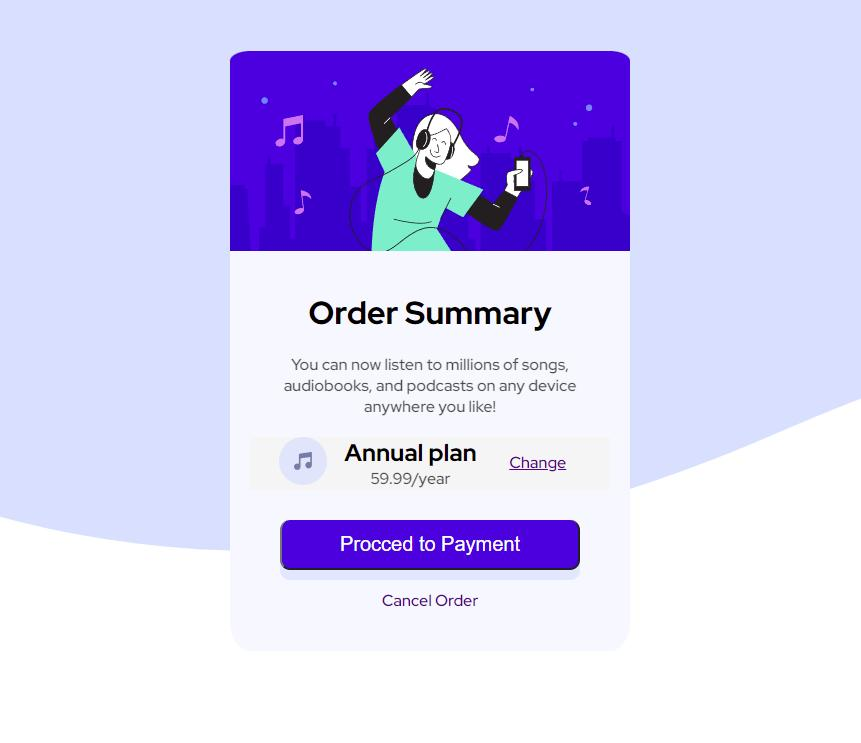
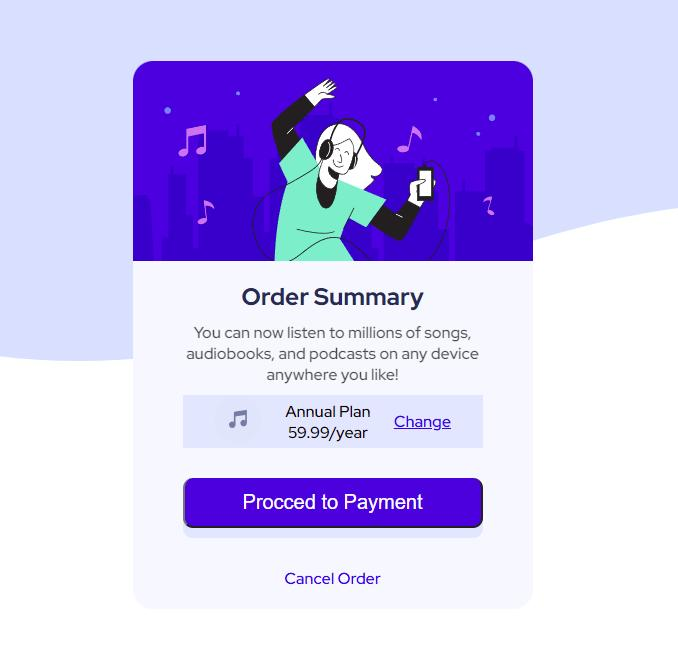
modified:   index.html 	modified:   screenshot.jpg 	modified:   style.css

diff --git a/style.css b/style.css
@@ -1,5 +1,13 @@
 @import url('https://fonts.googleapis.com/css2?family=Red+Hat+Display:wght@500;700;900&display=swap');
 
+:root {
+  --Pale-blue: hsl(225, 100%, 94%);
+  --Bright-blue: hsl(245, 75%, 52%);
+  --Very-pale-blue: hsl(225, 100%, 98%);
+  --Desaturated-blue: hsl(224, 23%, 55%);
+  --Dark-blue: hsl(223, 47%, 23%);
+}
+
 * {
   box-sizing: border-box;
   padding: 0;
@@ -15,13 +23,18 @@ body {
   display: flex;
   justify-content: center;
 }
-
-h1 {
+h2 {
+  text-align: center;
   padding-top: 20px;
+  width: 400px;
+  color: var(--Dark-blue)
 }
-
 p {
+  width: 300px;
+  text-align: center;
   opacity: 0.7;
+  padding: 10px 0;
+  margin: auto;
 }
 
 .container {
@@ -30,9 +43,7 @@ p {
   text-align: center;
   margin: auto;
   width: 400px;
-  height: 600px;
-  border-radius: 5%;
-  background-color: hsl(225, 100%, 98%);
+  height: 400px;
 }
 
 .hero {
@@ -40,38 +51,41 @@ p {
   background-size: cover;
   width: 400px;
   height: 200px;
-  border-radius: 5% 5% 0 0;
-  
+  border-top-left-radius: 20px 20px;
+  border-top-right-radius: 20px 20px;
+  align-items: center;;
 }
 
-.order {
-  padding: 20px;
-}
-
-.order p {
-  padding-top: 20px;
+.card {
+  background-color: var(--Very-pale-blue);
+  border-bottom-left-radius: 20px 20px;
+  border-bottom-right-radius: 20px 20px;
 }
 
 .plan {
-  background-color: #f5f5f5;
-  padding: 0 20px;
-  margin: 0 20px;
+  background-color: var(--Pale-blue);
   display: flex;
+  align-items: center;
   justify-content: space-around;
+  padding: 0 20px;
+  width: 300px;
+  margin: auto;
 }
 
-.change {
-  padding: 15px;
+ul {
+list-style: none;
 }
+
 .change a {
   text-decoration: underline;
 }
+
 a {
   text-decoration: none;
 }
 
 .btn {
-  background-color: hsl(245, 75%, 52%);
+  background-color: var(--Bright-blue);
   color: #fff;
   width: 300px;
   height: 50px;
@@ -88,4 +102,36 @@ a {
 
 .cancel {
   margin-top: 20px;
+  padding: 20px 0;
+}
+
+@media (max-width: 600px ){
+  .container {
+    width: 300px;
+  }
+  .hero {
+    width: auto;
+    height: 150px;
+    background-size: contain;
+    background-repeat: no-repeat;
+  }
+  .plan {
+    justify-content: left;
+    font-size: .75rem
+  }
+  h2 {
+    width: 300px;
+  }
+  p {
+    margin: 0;
+  }
+  .btn, .plan {
+    width: 250px;
+  }
+  .plan a {
+    padding: 0 0 0 20px;
+  }
+  .change {
+    padding-left: 30px;
+  }
 }

diff --git a/index.html b/index.html
@@ -13,41 +13,38 @@
 
 <body>
   <div class="container">
-    <div class="hero">
-
-    </div>
-    <div class="order">
-      <div>
-        <h1>Order Summary</h1>
-      </div>
-
-      <div>
-        <p> You can now listen to millions of songs, audiobooks, and podcasts on any
-          device anywhere you like!</p>
-      </div>
-    </div>
-
-    <div class="plan">
-      <div class="icon"><img src="images/icon-music.svg" alt=""></div>
-      <div>
+    <div class="hero"></div>
+    <div class="card">
+      <div class="order">
         <div>
-          <h2>Annual plan</h2>
+          <h2>Order Summary</h2>
         </div>
-
         <div>
-          <p>59.99/year</p>
+          <p>You can now listen to millions of songs, audiobooks, and podcasts on any
+            device anywhere you like!</p>
         </div>
       </div>
 
-      <div class="change">
-        <a href="#">Change</a>
+      <div class="plan">
+        <div>
+          <img src="images/icon-music.svg" alt="">
+        </div>
+        <div>
+          <ul>
+            <li>Annual Plan</li>
+            <li>59.99/year</li>
+          </ul>
+        </div>
+        <div class="change">
+          <a href="#">Change</a>
+        </div>
       </div>
-    </div>
 
-    <button class="btn">Procced to Payment</button>
-    <br>
-    <div class="cancel">
-      <a href="#">Cancel Order</a>
+      <button class="btn">Procced to Payment</button>
+      <br>
+      <div class="cancel">
+        <a href="#">Cancel Order</a>
+      </div>
     </div>
 
   </div>
